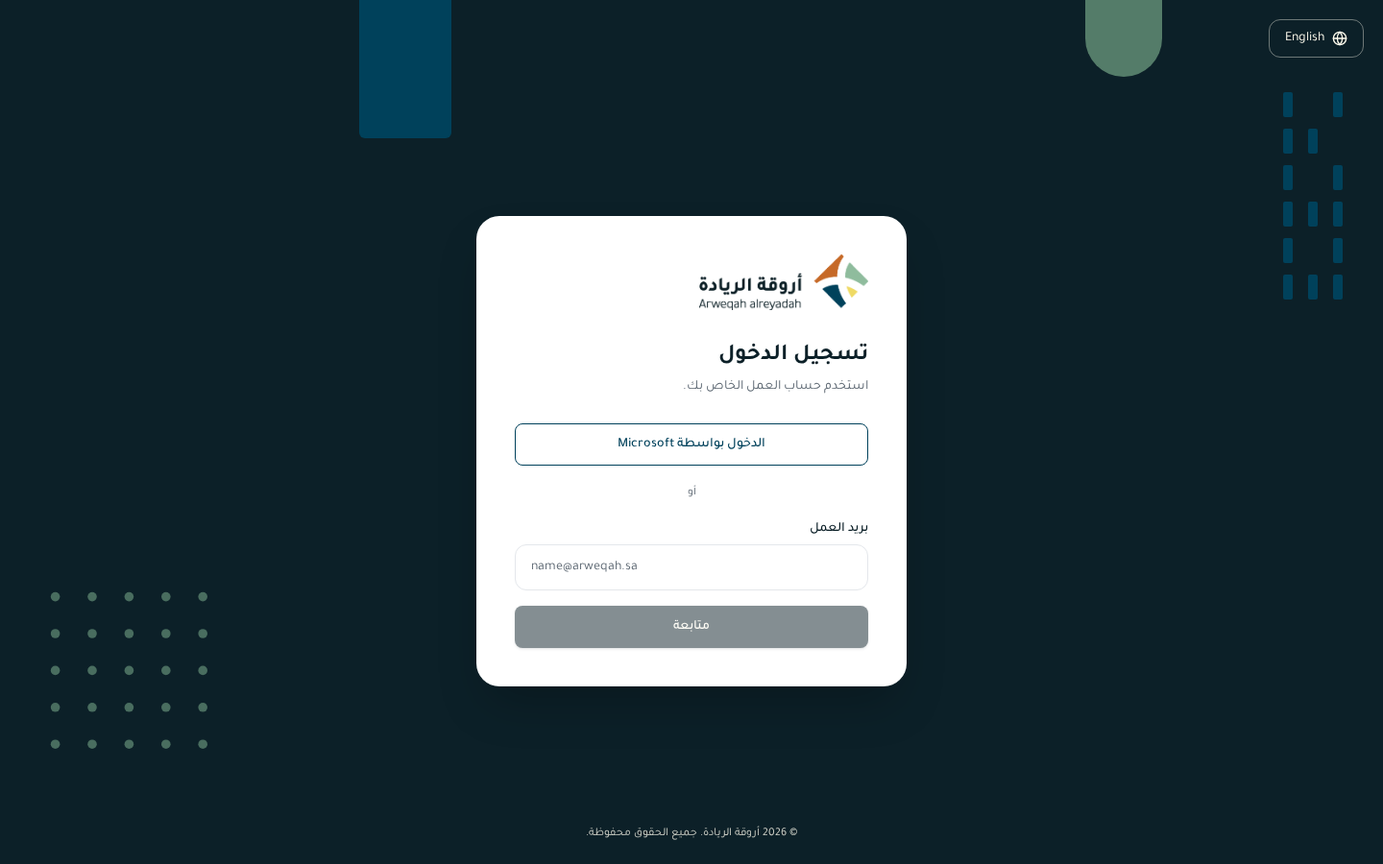
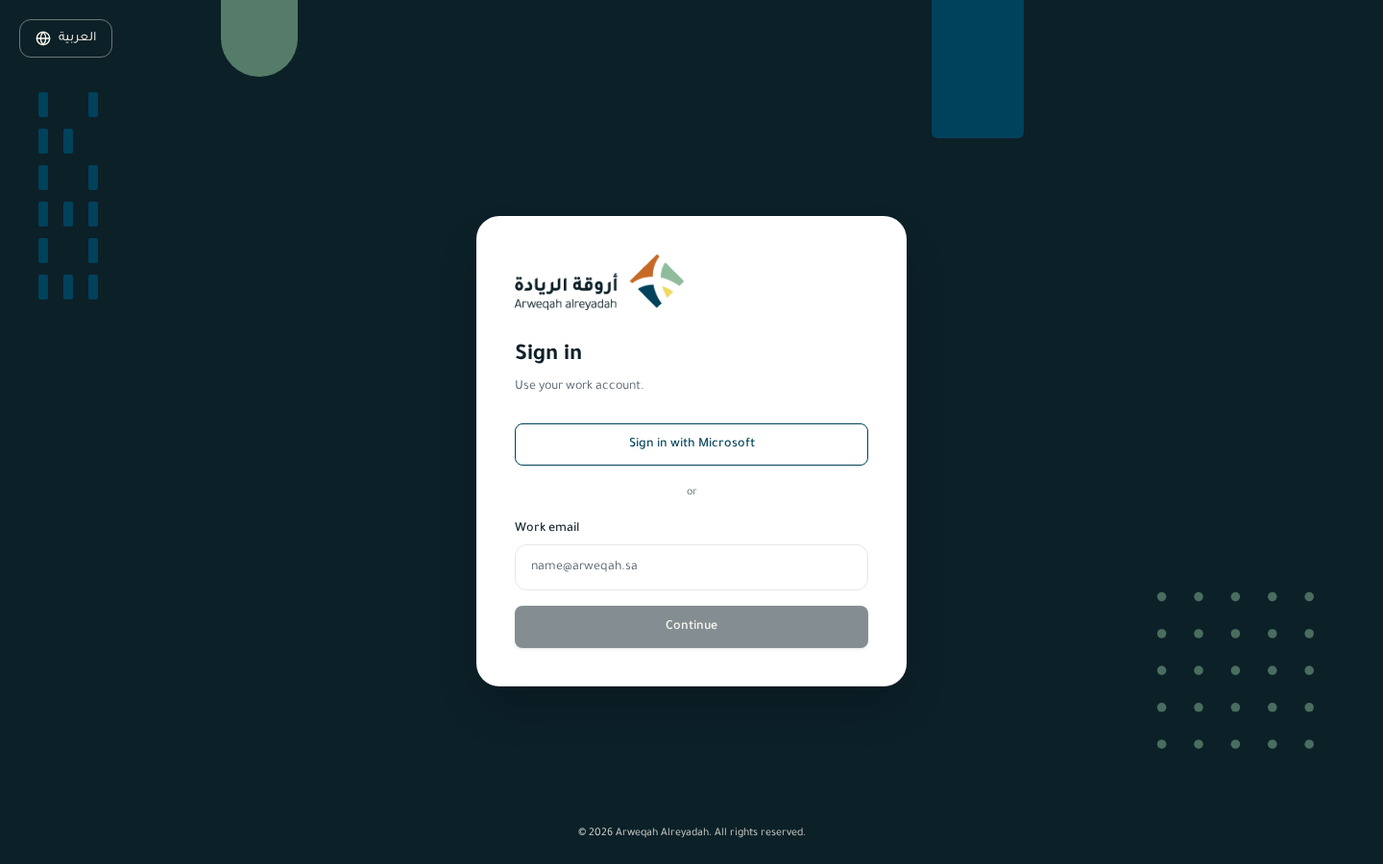
fix: CodeRabbit review of PR 79 (English screenshots were Arabic, audit redaction claim, e2e db, skill layout)
- capture script stores the language under the key the app reads (arweqah.language): the en images were Arabic
- capture script creates/migrates the e2e database first (db:prepare:e2e)
- audit manual: redaction is by top-level field name only, no "never appears" promise
- skill moved to .claude/skills/user-manual-document/SKILL.md with frontmatter, rewritten for this project
- unused readdirSync import removed

diff --git a/apps/web/public/docs/ar/index.html b/apps/web/public/docs/ar/index.html
@@ -622,7 +622,7 @@
 <ul><li><strong>ظهرت رسالة «هذه الصفحة تعمل في وضع مدير المنصة»:</strong> فعّل الوضع من أعلى الصفحة بكود جديد من تطبيق المصادقة؛ يتوقف تلقائيًا بعد 30 دقيقة بلا نشاط إداري.</li><li><strong>لا يظهر زر «حفظ»:</strong> تحتاج مفتاح الحفظ الخاص بنوع ما اخترته (دور أو مجموعة أدوار أو شخص أو مجموعة مستخدمين).</li><li><strong>أبحث عن شخص ولا يظهر:</strong> اكتب أول حرف من اسمه أو بريده.</li><li><strong>رُفض الحفظ:</strong> غالبًا تحاول منح نطاق أو حقولًا أوسع مما تملك.</li></ul>
 <h2 id="s30">30. سجل التدقيق</h2>
 <h3>ما هذه الصفحة</h3>
-<p>سجل بكل حدث مهم في المنصة: من فعل ماذا ومتى ومن أي عنوان، بجملة مفهومة وفئة (الدخول، الموظفون، المهام…). تراجع هنا كل تسجيل دخول وتغيير في الموظفين والهيكل والصلاحيات والتذاكر والمهام والإعدادات. لا تظهر فيه البيانات الحسّاسة أبدًا.</p>
+<p>سجل بكل حدث مهم في المنصة: من فعل ماذا ومتى ومن أي عنوان، بجملة مفهومة وفئة (الدخول، الموظفون، المهام…). تراجع هنا كل تسجيل دخول وتغيير في الموظفين والهيكل والصلاحيات والتذاكر والمهام والإعدادات. تُخفى فيه قيم الحقول التي يشبه اسمها كلمة سر أو سرًّا أو رمزًا أو رقم هوية أو آيبان.</p>
 <p><img class="shot" loading="lazy" alt="سجل التدقيق" src="../images/ar/17-audit.png"></p>
 <h3>من يراها</h3>
 <div class="tbl"><table><thead><tr><th>البند</th><th>التفصيل</th></tr></thead><tbody><tr><td>مفتاح العرض</td><td><code>audit.view</code> (عرض صفحة سجل التدقيق)</td></tr><tr><td>النطاق الافتراضي</td><td>الكل</td></tr><tr><td>وضع مدير المنصة</td><td>مطلوب</td></tr><tr><td>الأدوار التي تحملها افتراضيًا</td><td>دور «مدير النظام» الأساسي. ودور «مدقق المنصة» موجود في قائمة الأدوار ويبدأ بلا صلاحيات، ويمنحه المسؤول المفاتيح اللازمة. دور «موظف» وأدوار القادة لا تحملها</td></tr></tbody></table></div>
@@ -639,7 +639,7 @@
 <h3>الفئات</h3>
 <p>الدخول والأمان، الموظفون، الهيكل التنظيمي والشركات، الأدوار والصلاحيات، التذاكر، المهام، إعدادات النظام، أخرى.</p>
 <h3>قواعد العمل</h3>
-<ul><li><strong>كل إجراء بجملة مفهومة</strong> («نقل مهمة إلى حالة أخرى» مثلًا) وفئة، وليس باسم تقني (FR-63).</li><li><strong>الفلاتر:</strong> الفئة، الإجراء (جمل الفئة المختارة فقط)، الشخص (الاسم أو البريد)، من تاريخ، إلى تاريخ. <strong>والبحث</strong> يجد الجملة بأي من اللغتين، واسم المنفّذ، ورقم السجل المعني.</li><li><strong>إخفاء الأسرار:</strong> تُحجب القيم الحسّاسة (رقم الهوية والآيبان وكلمات السر والمفاتيح) بحسب اسم الحقل قبل الكتابة، فلا تظهر في السجل ولا في الملف المصدَّر. وتُسجَّل في الغالب أسماء الحقول التي تغيّرت لا قيمها (FR-11).</li><li><strong>لا يُعدَّل ولا يُحذف:</strong> كل قيد مرتبط بالسابق بتوقيع رقمي، وتمنع قاعدة البيانات تعديله أو حذفه؛ وتفحص المنصة السلسلة أسبوعيًا وتسجّل خللًا إن انكسرت (FR-75).</li><li><strong>الدخول بحساب موظف آخر:</strong> كل قيد يُكتب أثناءها يحمل اسم المدير بجانب اسم الموظف، ويُسجَّل بدء الجلسة وانتهاؤها.</li><li><strong>التوقيت:</strong> تُعرض الأوقات بتوقيت جهازك.</li><li><strong>للقراءة فقط:</strong> لا يوجد في الصفحة ما يغيّر السجل.</li></ul>
+<ul><li><strong>كل إجراء بجملة مفهومة</strong> («نقل مهمة إلى حالة أخرى» مثلًا) وفئة، وليس باسم تقني (FR-63).</li><li><strong>الفلاتر:</strong> الفئة، الإجراء (جمل الفئة المختارة فقط)، الشخص (الاسم أو البريد)، من تاريخ، إلى تاريخ. <strong>والبحث</strong> يجد الجملة بأي من اللغتين، واسم المنفّذ، ورقم السجل المعني.</li><li><strong>إخفاء بعض القيم:</strong> قبل الكتابة يُخزَّن التغيير الذي يشبه اسم حقله كلمة سر أو سرًّا أو رمزًا أو رقم هوية أو آيبان بعبارة «[redacted]». يتم ذلك بحسب اسم الحقل وفي المستوى الأول من التغيير فقط: حقل باسم آخر (مثل مفتاح API) أو قيمة حسّاسة داخل حقل متداخل لا يشملها الإخفاء، فلا تعتمد على خلو السجل من كل قيمة حسّاسة. وتُسجَّل في الغالب أسماء الحقول التي تغيّرت لا قيمها (FR-11).</li><li><strong>لا يُعدَّل ولا يُحذف:</strong> كل قيد مرتبط بالسابق بتوقيع رقمي، وتمنع قاعدة البيانات تعديله أو حذفه؛ وتفحص المنصة السلسلة أسبوعيًا وتسجّل خللًا إن انكسرت (FR-75).</li><li><strong>الدخول بحساب موظف آخر:</strong> كل قيد يُكتب أثناءها يحمل اسم المدير بجانب اسم الموظف، ويُسجَّل بدء الجلسة وانتهاؤها.</li><li><strong>التوقيت:</strong> تُعرض الأوقات بتوقيت جهازك.</li><li><strong>للقراءة فقط:</strong> لا يوجد في الصفحة ما يغيّر السجل.</li></ul>
 <h3>نصائح ومشكلات شائعة</h3>
 <ul><li><strong>لا أجد حدثًا:</strong> ابحث بجزء من الجملة، أو وسّع الفترة، أو اختر «كل» الفئات.</li><li><strong>الإجراء الذي أبحث عنه غير موجود في القائمة:</strong> اختر أولًا الفئة الصحيحة، فالقائمة تعرض إجراءات الفئة المختارة.</li><li><strong>أريد إثبات مسؤول عن تغيير في الصلاحيات:</strong> افلتر بفئة «الأدوار والصلاحيات» وافتح القيد لترى المنفّذ والوقت والتغييرات.</li></ul>
 <h2 id="s31">31. سجل البريد المرسل</h2>

diff --git a/apps/web/public/docs/en/index.html b/apps/web/public/docs/en/index.html
@@ -622,7 +622,7 @@
 <ul><li><strong>The message «This page works in platform admin mode» appears:</strong> turn the mode on at the top of the page with a fresh authenticator code; it stops by itself after 30 minutes without admin activity.</li><li><strong>The «Save» button is missing:</strong> you need the save key for the kind you chose (role, group of roles, person or group of people).</li><li><strong>I search for a person and they do not show:</strong> type the first letter of their name or e-mail.</li><li><strong>Saving was refused:</strong> most likely you are trying to give a scope or fields wider than you hold.</li></ul>
 <h2 id="s30">30. Audit log</h2>
 <h3>What this page is</h3>
-<p>A record of every important event on the platform: who did what, when and from which address, as a plain sentence and a category (sign-in, employees, tasks…). Here you review every sign-in and every change to employees, the organization, permissions, tickets, tasks and settings. Sensitive data never appears in it.</p>
+<p>A record of every important event on the platform: who did what, when and from which address, as a plain sentence and a category (sign-in, employees, tasks…). Here you review every sign-in and every change to employees, the organization, permissions, tickets, tasks and settings. Values of fields named like a password, secret, token, national ID or IBAN are hidden in it.</p>
 <p><img class="shot" loading="lazy" alt="Audit log" src="../images/en/17-audit.png"></p>
 <h3>Who sees it</h3>
 <div class="tbl"><table><thead><tr><th>Item</th><th>Detail</th></tr></thead><tbody><tr><td>View key</td><td><code>audit.view</code> (View the audit log page)</td></tr><tr><td>Default scope</td><td>All</td></tr><tr><td>Platform admin mode</td><td>Required</td></tr><tr><td>Default roles that hold it</td><td>The built-in «System Admin» role. A «Platform auditor» role exists in the roles list and starts without permissions; an administrator gives it the keys it needs. The «Employee» role and the unit head roles do not hold it</td></tr></tbody></table></div>
@@ -639,7 +639,7 @@
 <h3>Categories</h3>
 <p>Sign-in and security, Employees, Organization and companies, Roles and permissions, Tickets, Tasks, System settings, Other.</p>
 <h3>Business rules</h3>
-<ul><li><strong>Every action is a plain sentence</strong> (for example «moved a task to another status») with a category, not a technical name (FR-63).</li><li><strong>Filters:</strong> category, action (only the sentences of the chosen category), person (name or e-mail), from date, to date. <strong>Search</strong> finds the sentence in either language, the actor's name and the id of the record concerned.</li><li><strong>Secrets are hidden:</strong> sensitive values (national ID, IBAN, passwords, keys) are blocked by field name before writing, so they appear neither in the log nor in the exported file. Mostly the names of the fields that changed are recorded, not their values (FR-11).</li><li><strong>Never edited or deleted:</strong> each entry is chained to the previous one with a digital fingerprint, and the database refuses to change or delete it; the platform checks the chain weekly and records a failure if it breaks (FR-75).</li><li><strong>Signing in as another employee:</strong> every entry written during it carries the administrator's name beside the employee's, and the start and end of the session are recorded.</li><li><strong>Time:</strong> times show in your device's time zone.</li><li><strong>Read only:</strong> nothing on the page changes the log.</li></ul>
+<ul><li><strong>Every action is a plain sentence</strong> (for example «moved a task to another status») with a category, not a technical name (FR-63).</li><li><strong>Filters:</strong> category, action (only the sentences of the chosen category), person (name or e-mail), from date, to date. <strong>Search</strong> finds the sentence in either language, the actor's name and the id of the record concerned.</li><li><strong>Some values are hidden:</strong> before writing, a change whose field is named like a password, secret, token, national ID or IBAN is stored as «[redacted]». This is by the field's name and only at the top level of the change: a field with another name (for example an API key) or a sensitive value inside a nested field is not covered, so do not rely on the log being free of every sensitive value. Mostly the names of the fields that changed are recorded, not their values (FR-11).</li><li><strong>Never edited or deleted:</strong> each entry is chained to the previous one with a digital fingerprint, and the database refuses to change or delete it; the platform checks the chain weekly and records a failure if it breaks (FR-75).</li><li><strong>Signing in as another employee:</strong> every entry written during it carries the administrator's name beside the employee's, and the start and end of the session are recorded.</li><li><strong>Time:</strong> times show in your device's time zone.</li><li><strong>Read only:</strong> nothing on the page changes the log.</li></ul>
 <h3>Tips and common problems</h3>
 <ul><li><strong>I cannot find an event:</strong> search with part of the sentence, widen the period, or clear the category.</li><li><strong>The action I look for is not in the list:</strong> choose the right category first; the list shows the actions of the chosen category.</li><li><strong>I want to know who changed permissions:</strong> filter by the «Roles and permissions» category and open the entry to see the actor, the time and the changes.</li></ul>
 <h2 id="s31">31. Sent e-mail log</h2>

diff --git a/.claude/skills/user-manual-document/SKILL.md b/.claude/skills/user-manual-document/SKILL.md
@@ -1,0 +1,36 @@
+---
+name: user-manual-document
+description: Write, update and publish the Arweqah user manual (Arabic + English, served at /docs) with real screenshots. Use when asked for the user manual, user guide, documentation pages or manual screenshots, and after any change to a page, button, permission or flow that the manual describes.
+---
+
+# User manual (served at `/docs`)
+
+Plan: `docs/plans/user-manual.md`. Decision 367 in `docs/decisions.md`.
+
+## Where things are
+- Text: `docs/user-manual/sections/NN-name.<ar|en>.md`, one file per page, **both languages**, same structure. `00-intro` holds the `# ` title; every other file has one `## Title` (no number: the builder numbers it). Subset only: `###`/`####`, paragraphs, `- ` and `1. ` lists, `> ` notes, `**bold**`, `` `code` ``, tables, images `![alt](../images/<lang>/<file>.png)`.
+- Groups and order: the `GROUPS` array in `scripts/build-user-manual.mjs` mirrors the side menu (same names, same order). A new page's file name is added there. Pages hidden from the menu (`hideFromMenu`) are not in the manual.
+- Output (committed): `apps/web/public/docs/` (`index.html`, `ar/`, `en/`, `docs.css`, `fonts/`, `images/<lang>/`). Branded with the design system; static, no scripts (CSP).
+
+## Each page section, in this order
+1. Purpose (one paragraph) and a screenshot.
+2. Who sees it: view key and label, default scope and roles, whether admin mode is needed.
+3. What you can do: table Action | What happens | Permission key (label), one row per button and row action.
+4. How to: numbered steps for the main jobs.
+5. Business rules (statuses, who approves, limits, what is refused, scope 404, audit, notifications), with FR ids.
+6. Tips / common problems.
+Sources: README §4 and §12, `docs/decisions.md`, `docs/plans/*.md`, `keys.ts` and `*.permissions.ts`, the feature's `i18n/{ar,en}.json` for the exact screen wording. Never invent a rule; leave out what is unclear. Plain language, no endpoints or class names.
+
+## Screenshots
+`npm run build` then `npm run docs:screenshots`. It resets and seeds its **own** database (`arweqah_platform_e2e`, demo organization, known admin authenticator secret), starts the built API (:3100) and web (:4173), signs in through the API, turns admin mode on, skips the tour, and captures every page in `PAGES` for `ar` (RTL) and `en` (LTR) at 1440×900 into `apps/web/public/docs/images/<lang>/`. The language is chosen with the key `arweqah.language` in local storage. It never touches the development database or the real admin's authenticator. A new page = one line in `PAGES` in `scripts/capture-docs-screenshots.mjs`. Look at an `en` image after a run: it must be English.
+
+## Build and check
+1. `npm run docs:build` (sections → static pages).
+2. Open `http://localhost:5173/docs/ar/` and `/docs/en/`; check the side menu groups, a long page, light and dark.
+3. `npm run verify -- --quick`.
+4. Update the plan log in `docs/plans/user-manual.md`. Then follow CLAUDE.md rule 18 (PR, CI, CodeRabbit, merge, deploy).
+
+## Never
+- Screenshots with real employee data (the manual is public, no sign-in).
+- A manual page for something a role cannot reach without saying which key and mode it needs.
+- Yellow as text, fixed colors outside the tokens in `docs.css`.

diff --git a/docs/user-manual/sections/44-audit.ar.md b/docs/user-manual/sections/44-audit.ar.md
@@ -2,7 +2,7 @@
 
 ### ما هذه الصفحة
 
-سجل بكل حدث مهم في المنصة: من فعل ماذا ومتى ومن أي عنوان، بجملة مفهومة وفئة (الدخول، الموظفون، المهام…). تراجع هنا كل تسجيل دخول وتغيير في الموظفين والهيكل والصلاحيات والتذاكر والمهام والإعدادات. لا تظهر فيه البيانات الحسّاسة أبدًا.
+سجل بكل حدث مهم في المنصة: من فعل ماذا ومتى ومن أي عنوان، بجملة مفهومة وفئة (الدخول، الموظفون، المهام…). تراجع هنا كل تسجيل دخول وتغيير في الموظفين والهيكل والصلاحيات والتذاكر والمهام والإعدادات. تُخفى فيه قيم الحقول التي يشبه اسمها كلمة سر أو سرًّا أو رمزًا أو رقم هوية أو آيبان.
 
 ![سجل التدقيق](../images/ar/17-audit.png)
 
@@ -53,7 +53,7 @@
 
 - **كل إجراء بجملة مفهومة** («نقل مهمة إلى حالة أخرى» مثلًا) وفئة، وليس باسم تقني (FR-63).
 - **الفلاتر:** الفئة، الإجراء (جمل الفئة المختارة فقط)، الشخص (الاسم أو البريد)، من تاريخ، إلى تاريخ. **والبحث** يجد الجملة بأي من اللغتين، واسم المنفّذ، ورقم السجل المعني.
-- **إخفاء الأسرار:** تُحجب القيم الحسّاسة (رقم الهوية والآيبان وكلمات السر والمفاتيح) بحسب اسم الحقل قبل الكتابة، فلا تظهر في السجل ولا في الملف المصدَّر. وتُسجَّل في الغالب أسماء الحقول التي تغيّرت لا قيمها (FR-11).
+- **إخفاء بعض القيم:** قبل الكتابة يُخزَّن التغيير الذي يشبه اسم حقله كلمة سر أو سرًّا أو رمزًا أو رقم هوية أو آيبان بعبارة «[redacted]». يتم ذلك بحسب اسم الحقل وفي المستوى الأول من التغيير فقط: حقل باسم آخر (مثل مفتاح API) أو قيمة حسّاسة داخل حقل متداخل لا يشملها الإخفاء، فلا تعتمد على خلو السجل من كل قيمة حسّاسة. وتُسجَّل في الغالب أسماء الحقول التي تغيّرت لا قيمها (FR-11).
 - **لا يُعدَّل ولا يُحذف:** كل قيد مرتبط بالسابق بتوقيع رقمي، وتمنع قاعدة البيانات تعديله أو حذفه؛ وتفحص المنصة السلسلة أسبوعيًا وتسجّل خللًا إن انكسرت (FR-75).
 - **الدخول بحساب موظف آخر:** كل قيد يُكتب أثناءها يحمل اسم المدير بجانب اسم الموظف، ويُسجَّل بدء الجلسة وانتهاؤها.
 - **التوقيت:** تُعرض الأوقات بتوقيت جهازك.

diff --git a/docs/user-manual/sections/44-audit.en.md b/docs/user-manual/sections/44-audit.en.md
@@ -2,7 +2,7 @@
 
 ### What this page is
 
-A record of every important event on the platform: who did what, when and from which address, as a plain sentence and a category (sign-in, employees, tasks…). Here you review every sign-in and every change to employees, the organization, permissions, tickets, tasks and settings. Sensitive data never appears in it.
+A record of every important event on the platform: who did what, when and from which address, as a plain sentence and a category (sign-in, employees, tasks…). Here you review every sign-in and every change to employees, the organization, permissions, tickets, tasks and settings. Values of fields named like a password, secret, token, national ID or IBAN are hidden in it.
 
 ![Audit log](../images/en/17-audit.png)
 
@@ -53,7 +53,7 @@ Sign-in and security, Employees, Organization and companies, Roles and permissio
 
 - **Every action is a plain sentence** (for example «moved a task to another status») with a category, not a technical name (FR-63).
 - **Filters:** category, action (only the sentences of the chosen category), person (name or e-mail), from date, to date. **Search** finds the sentence in either language, the actor's name and the id of the record concerned.
-- **Secrets are hidden:** sensitive values (national ID, IBAN, passwords, keys) are blocked by field name before writing, so they appear neither in the log nor in the exported file. Mostly the names of the fields that changed are recorded, not their values (FR-11).
+- **Some values are hidden:** before writing, a change whose field is named like a password, secret, token, national ID or IBAN is stored as «[redacted]». This is by the field's name and only at the top level of the change: a field with another name (for example an API key) or a sensitive value inside a nested field is not covered, so do not rely on the log being free of every sensitive value. Mostly the names of the fields that changed are recorded, not their values (FR-11).
 - **Never edited or deleted:** each entry is chained to the previous one with a digital fingerprint, and the database refuses to change or delete it; the platform checks the chain weekly and records a failure if it breaks (FR-75).
 - **Signing in as another employee:** every entry written during it carries the administrator's name beside the employee's, and the start and end of the session are recorded.
 - **Time:** times show in your device's time zone.

diff --git a/docs/plans/user-manual.md b/docs/plans/user-manual.md
@@ -1,6 +1,6 @@
 # خطة دليل المستخدم (User Manual)
 
-**الحالة: منفَّذ (المرحلة 1–2، 2026-11-11).** المهارة: `.claude/skills/user-manual-document.md`.
+**الحالة: منفَّذ (المرحلة 1–2، 2026-11-11).** المهارة: `.claude/skills/user-manual-document/SKILL.md`.
 
 ## 1. الهدف
 دليل مستخدم مصوَّر بالعربية (RTL) والإنجليزية (LTR) لكل الصفحات المبنية، تُلتقط صوره آليًا بـPlaywright من قاعدة التطوير.
